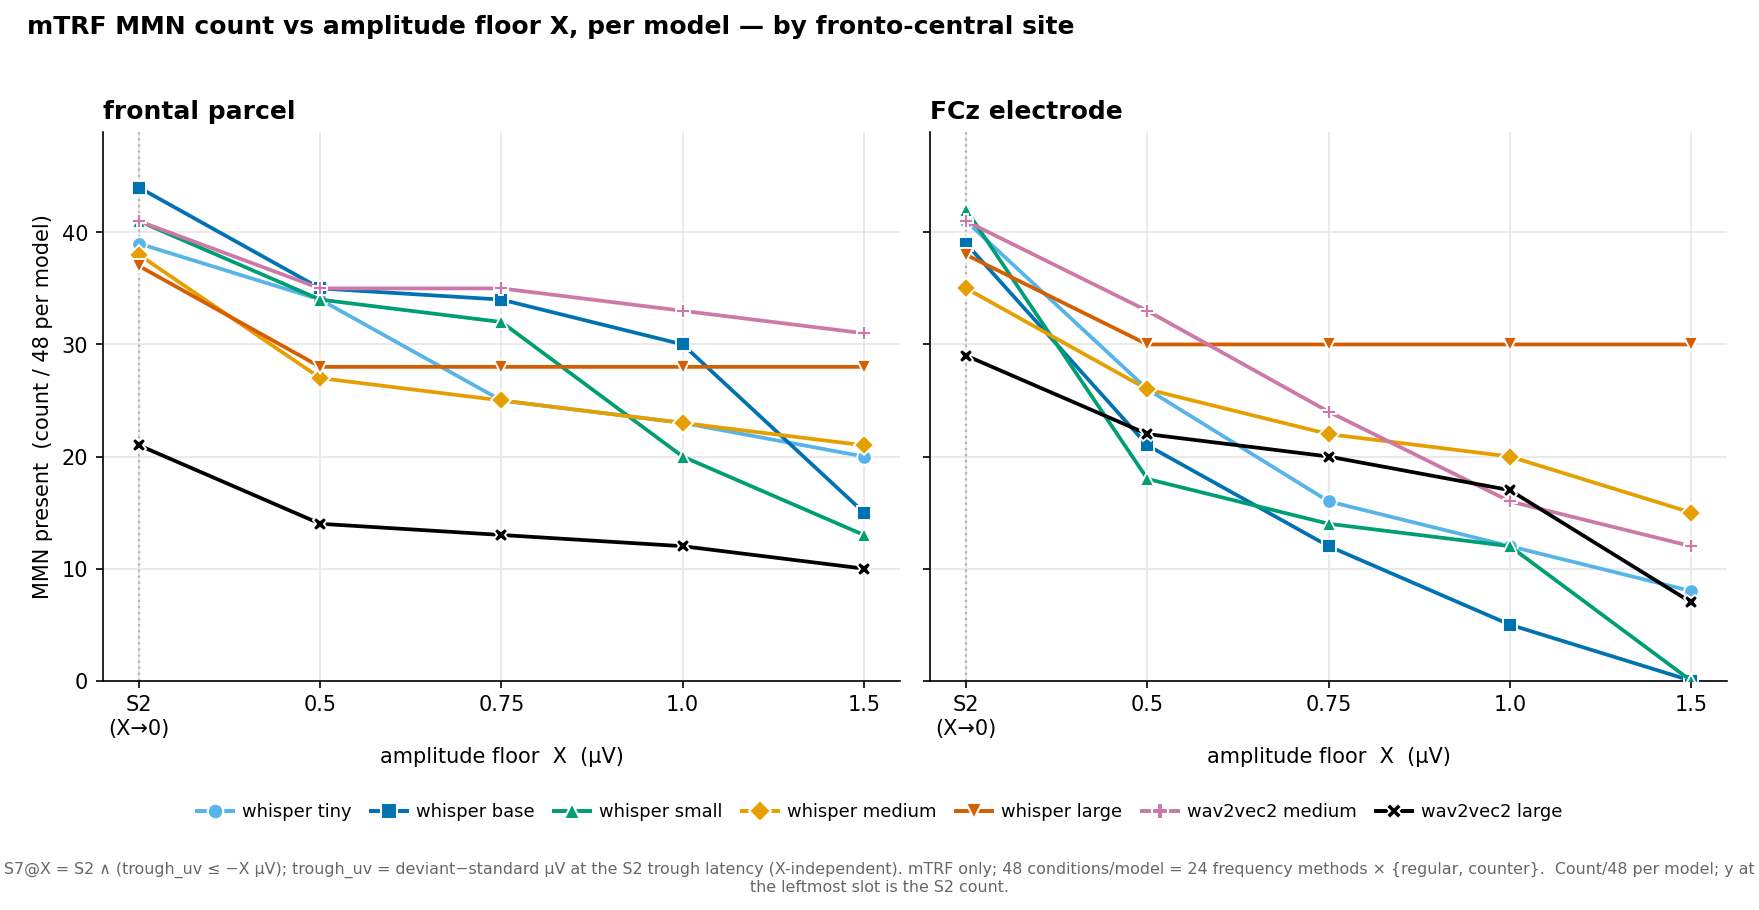
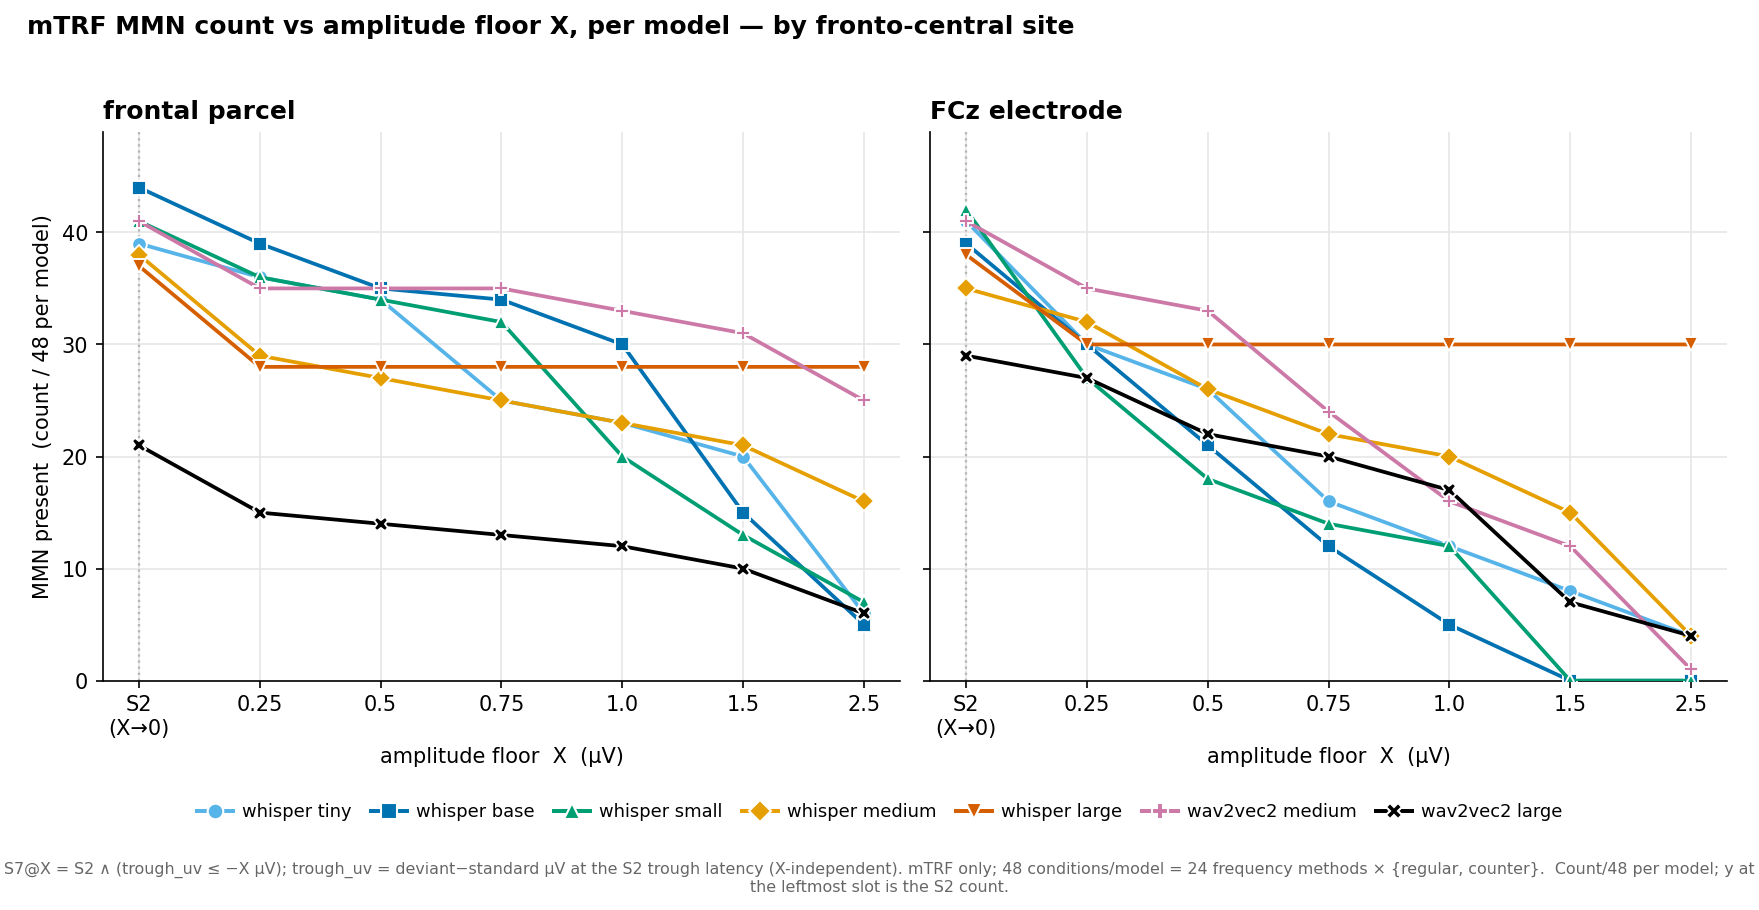
Sections 7/8/8b/8c: always show the 0.25 and 2.5 uV bookends
The reporting sweep stopped at 1.5, which hid both ends of the floor's
effect. Restore X = 0.25 and X = 2.5 everywhere they are compared:
Tables 32/33 gain S7@0.25 and S7@2.5 rows; Tables 36 and 37c now span the
whole sweep instead of quoting X = 0.5 alone; the 8b figures plot
{S2, 0.25, 0.5, 0.75, 1.0, 1.5, 2.5} and the trough-distribution figure
draws all six floors. X = 0.5 stays the headline.

The bookends carry the story:
- The frontal-vs-FCz split is floor-dependent - nearly tied at 0.25
  (84% vs 80%), 79% vs 66% at the 0.5 headline, and widest at 2.5
  (36% vs 16%). "The parcel is more amplitude-robust" only holds at or
  above ~0.5 uV.
- whisper-large's scale artifact is unmissable at 2.5: unchanged at 28/48
  (frontal) and 30/48 (FCz) at EVERY floor from 0.25 to 2.5, while every
  other model at FCz is at 4 or below.
- whisper-base and whisper-small hit 0 at FCz for both 1.5 and 2.5.
- Fz and FCz are near-interchangeable across the sweep (Fz is marginally
  ahead at 2.5).

Doc checks now 188 (was 130).

diff --git a/aux/analysis_with_counter/plots/sec8b_mtrf_plots.py b/aux/analysis_with_counter/plots/sec8b_mtrf_plots.py
@@ -11,14 +11,19 @@ Each Section-8b figure is a 2-panel row of the two canonical reporting sites:
     frontal parcel  |  FCz electrode
 
 Section 8b (3 figures):
-  1. sec8b_x_vs_mmn_per_model.png      — count /48 vs floor X ∈ {S2(X→0), 0.5, 0.75, 1.0, 1.5}
+  1. sec8b_x_vs_mmn_per_model.png      — count /48 vs floor X ∈ {S2(X→0), 0.25, 0.5, 0.75, 1.0,
+                                         1.5, 2.5}
   2. sec8b_x_vs_mmn_pooled.png         — count /336 vs the same floors, pooled over the 7 models
   3. sec8b_trough_uv_distribution.png  — trough_uv (µV) per model over its S2-passing conditions,
-                                         dotted floors at −0.5/−0.75/−1.0/−1.5 µV (symlog x —
-                                         whisper-large's predicted µV are ~40× the others, a
-                                         scale artifact)
+                                         dotted floors at −0.25/−0.5/−0.75/−1.0/−1.5/−2.5 µV
+                                         (symlog x — whisper-large's predicted µV are ~40× the
+                                         others, a scale artifact)
 Section 8c (1 figure):
   4. sec8c_fz_vs_fcz_trough.png        — paired Fz vs FCz predicted trough (µV), matched conditions
+
+The 0.25 and 2.5 µV bookends are ALWAYS plotted: X = 0.25 is where the site/model spread nearly
+closes and X = 2.5 is where it is widest, so a sweep stopping at 1.5 hides both ends of the floor's
+effect. X = 0.5 remains the reported headline.
 """
 import numpy as np, pandas as pd
 from scipy import stats
@@ -60,9 +65,11 @@ SITES = [("parcel", "frontal", "frontal parcel"),
          ("electrode", "FCz", "FCz electrode")]
 LEGEND_PANEL = 1                  # FCz (right) carries the per-model legend
 
-# amplitude floors on the x-axis; S2 is the X->0 reference (first, evenly-spaced slot)
-X_FLOORS = [0.5, 0.75, 1.0, 1.5]
-XLAB = ["S2\n(X→0)", "0.5", "0.75", "1.0", "1.5"]
+# amplitude floors on the x-axis; S2 is the X->0 reference (first, evenly-spaced slot).
+# The 0.25 and 2.5 bookends are ALWAYS shown: 0.25 is where the site/model spread nearly closes and
+# 2.5 is where it is widest, so dropping them hides both ends of the floor's effect.
+X_FLOORS = [0.25, 0.5, 0.75, 1.0, 1.5, 2.5]
+XLAB = ["S2\n(X→0)", "0.25", "0.5", "0.75", "1.0", "1.5", "2.5"]
 XPOS = list(range(len(X_FLOORS) + 1))
 I05 = X_FLOORS.index(0.5) + 1     # present_counts / x-slot index of the 0.5 headline
 POOL_COLOR = "#0072B2"
@@ -87,7 +94,7 @@ def site_df(kind, roi):
 
 
 def present_counts(sub):
-    """[S2, S7@0.5, S7@0.75, S7@1.0, S7@1.5] present-count for a subframe."""
+    """[S2, S7@0.25, S7@0.5, S7@0.75, S7@1.0, S7@1.5, S7@2.5] present-count for a subframe."""
     out = [int(sub.s2.sum())]
     for X in X_FLOORS:
         out.append(int(((sub.s2) & (sub.trough_uv <= -X)).sum()))
@@ -165,7 +172,7 @@ plt.close(fig)
 
 # ============ FIG 3: trough_uv distribution per model, symlog x, frontal | FCz ============
 fig, axes = plt.subplots(1, 2, figsize=(12.0, 6.0), sharex=True, sharey=True)
-FLOORS = [-0.5, -0.75, -1.0, -1.5]
+FLOORS = [-0.25, -0.5, -0.75, -1.0, -1.5, -2.5]
 XLIM = (-700, 20)
 rng = np.random.default_rng(0)
 for i, (ax, (kind, roi, title)) in enumerate(zip(axes.flat, SITES)):
@@ -200,7 +207,7 @@ for i, (ax, (kind, roi, title)) in enumerate(zip(axes.flat, SITES)):
     ax.set_ylim(0.4, N_MODELS + 0.95)
     ax.set_title(title, fontweight="bold", loc="left")
     ax.set_xlabel("S2/S7 trough  (µV, symlog;  negative = deeper MMN)")
-axes.flat[0].annotate("dotted = X floors {0.5, 0.75, 1.0, 1.5} µV · x-axis is symlog",
+axes.flat[0].annotate("dotted = X floors {0.25, 0.5, 0.75, 1.0, 1.5, 2.5} µV · x-axis is symlog",
                       xy=(0.02, 0.98), xycoords="axes fraction", ha="left", va="top",
                       fontsize=7.2, color="#888")
 fig.suptitle("mTRF S2-passing trough distribution per model, and how each X floor cuts it — by site",
@@ -262,7 +269,7 @@ fig.savefig(f"{OUT}/sec8c_fz_vs_fcz_trough.png", bbox_inches="tight")
 plt.close(fig)
 
 print("saved 4 figures to", OUT)
-print("rows = [S2, S7@0.5, S7@0.75, S7@1.0, S7@1.5]")
+print("rows = [S2] + [S7@X for X in " + str(X_FLOORS) + "]")
 for kind, roi, title in SITES:
     sub = site_df(kind, roi)
     print(f"\n{title} (mtrf):")

diff --git a/aux/analysis_with_counter/results_analysis_with_counter.md b/aux/analysis_with_counter/results_analysis_with_counter.md
@@ -931,7 +931,9 @@ The Section 4 and Section 6 findings from `results_analysis.md` are preserved wi
 > **S7@X** = `S2 AND (trough_uv ≤ −X µV)`, so **S7 ⊆ S2** in every cell. **trough_uv** = the signed
 > deviant−standard µV depth at the S2 trough latency (negative = deeper MMN), carried X-independently in
 > the CSV. **When a single floor is quoted the headline is X = 0.5 µV;** the calibration sweep
-> {0.25 … 2.5} (Table 31) and the reporting sweep {0.5, 0.75, 1.0, 1.5} (Tables 32–33) are shown below.
+> {0.25 … 2.5} (Table 31) and the reporting sweep {0.25, 0.5, 0.75, 1.0, 1.5, 2.5} (Tables 32–33) are
+> shown below — the **0.25 and 2.5 bookends are always reported** in every Section 7/8/8b/8c table and
+> figure, since the models converge at the lenient end and separate hardest at the strict end.
 >
 > **Scale caveat 1 — X is calibrated to the model, not to the literature (the ~4× shrinkage).** The
 > mTRF's predicted µV are **regularization-shrunk** (~4×), so the model's predicted µV scale need **not**
@@ -991,8 +993,10 @@ of any real MMN. The ROI-mean criteria of Sections 4/6 average the single-target
 ### 7b · S2 → S7 at the two fronto-central reporting sites (Tables 32–33)
 
 Present-count **n/48 per model**; the **Total** column is **n/336** (48 conditions × 7 models). Rows are
-the shape verdict `S2` and the amplitude-gated `S7@X` for the reporting sweep X ∈ {0.5, 0.75, 1.0, 1.5}
-µV (each computed from `trough_uv`). By construction **S7 ⊆ S2**, so every S7 row ≤ the S2 row. The
+the shape verdict `S2` and the amplitude-gated `S7@X` for the reporting sweep X ∈ {**0.25**, 0.5, 0.75,
+1.0, 1.5, **2.5**} µV (each computed from `trough_uv`). The **0.25 and 2.5 bookends are always shown**:
+0.25 is where the models nearly converge and 2.5 is where they are furthest apart, so a sweep stopping at
+1.5 hides both ends of the floor's effect. By construction **S7 ⊆ S2**, so every S7 row ≤ the S2 row. The
 **X = 0.5 µV headline** row is bolded. **whisper-large's counts are scale-inflated** (its predicted µV
 run ~40× the others), and the **Total** column pools whisper with the differently-trained wav2vec2 models
 (caveat 3) — read both as summaries, not controlled contrasts.
@@ -1002,27 +1006,33 @@ run ~40× the others), and the **Total** column pools whisper with the different
 | Criterion | whisper-tiny | whisper-base | whisper-small | whisper-medium | whisper-large | wav2vec2-medium | wav2vec2-large | Total (n/336) |
 | --------- | ------------ | ------------ | ------------- | -------------- | ------------- | --------------- | -------------- | ------------- |
 | S2 | 39 | 44 | 41 | 38 | 37 | 41 | 21 | 261 |
+| S7@0.25 | 36 | 39 | 36 | 29 | 28 | 35 | 15 | 218 |
 | **S7@0.5** | **34** | **35** | **34** | **27** | **28** | **35** | **14** | **207** |
 | S7@0.75 | 25 | 34 | 32 | 25 | 28 | 35 | 13 | 192 |
 | S7@1.0 | 23 | 30 | 20 | 23 | 28 | 33 | 12 | 169 |
 | S7@1.5 | 20 | 15 | 13 | 21 | 28 | 31 | 10 | 138 |
+| S7@2.5 | 6 | 5 | 7 | 16 | 28 | 25 | 6 | 93 |
 
 **Table 33. mTRF — FCz electrode**
 
 | Criterion | whisper-tiny | whisper-base | whisper-small | whisper-medium | whisper-large | wav2vec2-medium | wav2vec2-large | Total (n/336) |
 | --------- | ------------ | ------------ | ------------- | -------------- | ------------- | --------------- | -------------- | ------------- |
 | S2 | 41 | 39 | 42 | 35 | 38 | 41 | 29 | 265 |
+| S7@0.25 | 30 | 30 | 27 | 32 | 30 | 35 | 27 | 211 |
 | **S7@0.5** | **26** | **21** | **18** | **26** | **30** | **33** | **22** | **176** |
 | S7@0.75 | 16 | 12 | 14 | 22 | 30 | 24 | 20 | 138 |
 | S7@1.0 | 12 | 5 | 12 | 20 | 30 | 16 | 17 | 112 |
 | S7@1.5 | 8 | 0 | 0 | 15 | 30 | 12 | 7 | 72 |
+| S7@2.5 | 4 | 0 | 0 | 4 | 30 | 1 | 4 | 43 |
 
 ### 7c · Section 7 summary
 
 - **Calibration (Table 31).** Median S2-passing trough ≈ **−1.0 µV** (parcel −0.99, electrode −1.18), so
   the **X = 0.5 µV headline** sits shallower than the typical trough and keeps ≈ **70%** of S2 (71%
-  parcel, 72% electrode); 0.75 µV keeps 60–64%, 1.0 µV ≈ ½ (50–55%), and 1.5 µV only 37–43%. So 0.5 µV is
-  the lenient-but-nontrivial floor — it trims the shallow (0 → −0.5 µV) tail without amputating the bulk.
+  parcel, 72% electrode). Across the full reported sweep: **0.25 µV keeps 81–82%** (the lenient bookend),
+  0.75 µV keeps 60–64%, 1.0 µV ≈ ½ (50–55%), 1.5 µV 37–43%, and the **2.5 µV bookend only 26–29%**. So
+  0.5 µV is the lenient-but-nontrivial floor — it trims the shallow (0 → −0.5 µV) tail without amputating
+  the bulk, whereas 2.5 µV discards roughly three-quarters of the S2 troughs.
 - **mTRF S2 → S7@0.5 attrition, per model (Tables 32–33).** **Frontal parcel:** S2 261/336 → S7@0.5
   207/336 (**79%** retained) — tiny 39→34 (87%), base 44→35 (80%), small 41→34 (83%), medium 38→27 (71%),
   large 37→28 (76%), wav2vec2-medium 41→35 (85%), wav2vec2-large 21→14 (67%). **FCz electrode:** S2
@@ -1069,7 +1079,7 @@ deferred); pooled counts are **/336** (48 conditions × 7 models).
 
 > **Code / Data:** `scripts/analyze_mmn_s7_roi.py` → `outputs/results_24freq_7models/mmn_s7_roi.csv`.
 > Every number is recomputed at the **X = 0.5 µV** headline from the X-independent `trough_uv` column;
-> per-model splits and the {0.5 … 1.5} µV sweep are in Section 7's site-tables (Tables 32–33), and the
+> per-model splits and the {0.25 … 2.5} µV sweep are in Section 7's site-tables (Tables 32–33), and the
 > floor sweeps (per model and pooled) are plotted in **Section 8b**.
 >
 > **The /336 pool mixes whisper and wav2vec2**, which are not a strictly controlled comparison
@@ -1086,12 +1096,20 @@ between them.
 frontal parcel but only **66% (176/265)** at FCz (Table 36). The *same* shape verdict survives an
 absolute-µV floor markedly more often at the pooled parcel than at the single electrode.
 
-**Table 36. S2 → S7@0.5 retention at the two fronto-central sites** (mTRF, pooled /336)
+**Table 36. S2 → S7 retention at the two fronto-central sites, across the floor sweep** (mTRF, pooled
+/336). Cells are `S7@X count (% of that site's S2)`; the **0.5 headline** column is bolded, and the
+**0.25 / 2.5 bookends** are shown because the site gap *only exists in the middle of the range*.
 
-| Site | S2 (/336) | S7@0.5 (/336) | S7@0.5 / S2 |
-| ---- | --------- | ------------- | ----------- |
-| frontal parcel | 261 | 207 | **79%** |
-| FCz electrode | 265 | 176 | **66%** |
+| Site | S2 (/336) | S7@0.25 | **S7@0.5** | S7@0.75 | S7@1.0 | S7@1.5 | S7@2.5 |
+| ---- | --------- | ------- | ---------- | ------- | ------ | ------ | ------ |
+| frontal parcel | 261 | 218 (84%) | **207 (79%)** | 192 (74%) | 169 (65%) | 138 (53%) | 93 (36%) |
+| FCz electrode | 265 | 211 (80%) | **176 (66%)** | 138 (52%) | 112 (42%) | 72 (27%) | 43 (16%) |
+
+**The bookends show the split is floor-dependent.** At **X = 0.25** the two sites are nearly tied (84% vs
+80% — a 4-point gap); the gap opens at the 0.5 headline (79% vs 66%, 13 points) and is **widest at
+X = 2.5** (36% vs 16% — the parcel keeps *more than twice* the share FCz does). So "the frontal parcel is
+more amplitude-robust" is a statement about floors at or above ~0.5 µV; at a very lenient floor the choice
+of site barely matters.
 
 **3 · The cause is amplitude, not shape.** The frontal-parcel S2-passing troughs are ≈ **2× deeper** in
 µV than FCz's: median **−1.72 µV (parcel) vs −0.79 µV (FCz)** (Table 37). A parcel pools a spatial
@@ -1131,27 +1149,32 @@ under `plots/old_sec78_plots/`; the superseded 5-model 2×2-site figures under
 `plots/old_sec78_plots/5model_24freq/`.)
 
 **Read.**
-- **The floor cuts S2 monotonically, and the frontal parcel is uniquely robust.** At the 0.5 µV
-  headline the **frontal parcel keeps 79%** of S2 (207/261) vs **66%** at FCz (176/265), and the gap
-  widens with X (at 1.5 µV: 138 vs 72 /336). The frontal parcel's median trough is −1.72 µV against FCz's
-  −0.79 µV — **spatial pooling buys depth**, which is exactly what an absolute-µV floor rewards.
+- **The floor cuts S2 monotonically, and the frontal parcel is uniquely robust — but only above ~0.5 µV.**
+  The bookends bracket the effect: at **X = 0.25** the sites are nearly tied (218/261 = 84% vs 211/265 =
+  80%), at the **0.5 headline** the parcel keeps **79%** vs **66%**, and by **X = 2.5** the parcel keeps
+  **36%** (93/336) against FCz's **16%** (43/336) — more than double. The frontal parcel's median trough is
+  −1.72 µV against FCz's −0.79 µV — **spatial pooling buys depth**, which is exactly what an absolute-µV
+  floor rewards.
 - **Per model,** whisper-small has the shallowest FCz troughs (median −0.39 µV) and collapses fastest
-  (42 S2 → 18 at 0.5 → **0** at 1.5), with whisper-base close behind (also 0 at 1.5); **whisper-large is
-  the flat line at the top** — its predicted µV are ~40× the others (a scale artifact; Section 7 caveat
-  2), so it clears every floor unchanged from 0.5 to 1.5. **wav2vec2-medium is the most floor-robust
-  normal-scale model** (deepest frontal troughs, median −3.45 µV; 41 S2 → 31 at 1.5 µV), while
-  **wav2vec2-large starts lowest on shape** (21/48 frontal S2) and therefore stays lowest at every floor.
+  (42 S2 → 27 at 0.25 → 18 at 0.5 → **0** at both 1.5 and 2.5), with whisper-base identical at the strict
+  end (**0** at 1.5 and 2.5); **whisper-large is the flat line at the top** — its predicted µV are ~40× the
+  others (a scale artifact; Section 7 caveat 2), so it is **completely unchanged across the entire sweep**
+  (28/48 frontal and 30/48 FCz at *every* floor from 0.25 to 2.5). The 2.5 bookend is what makes that
+  artifact unmissable: at the strictest floor whisper-large retains 30/48 at FCz while every other model
+  is at 4 or below. **wav2vec2-medium is the most floor-robust normal-scale model** (deepest frontal
+  troughs, median −3.45 µV; 41 S2 → 25 even at 2.5 µV), while **wav2vec2-large starts lowest on shape**
+  (21/48 frontal S2) and therefore stays lowest at every floor.
 - **Trough distribution (symlog x):** six models cluster around the 0.5–1.5 µV floors; whisper-large sits
   ~40× deeper in both panels. Every model's FCz distribution sits shallower than its frontal-parcel one —
   the per-model version of the site split.
 
-**Figure 1 — MMN count /48 per model vs the amplitude floor X ∈ {S2 (X→0), 0.5, 0.75, 1.0, 1.5} µV:**
+**Figure 1 — MMN count /48 per model vs the amplitude floor X ∈ {S2 (X→0), 0.25, 0.5, 0.75, 1.0, 1.5, 2.5} µV:**
 ![mTRF MMN present-count /48 per model vs floor X; 2 panels (frontal parcel | FCz electrode), 7 model lines.](plots/sec8b_x_vs_mmn_per_model.png)
 
 **Figure 2 — pooled count /336 vs the same floors, S2 total as the X→0 reference:**
 ![mTRF MMN present-count /336 pooled over the 7 models vs floor X; 2 panels (frontal parcel | FCz electrode).](plots/sec8b_x_vs_mmn_pooled.png)
 
-**Figure 3 — trough_uv distribution per model over its S2-passing conditions (symlog x; dotted floors at −0.5/−0.75/−1.0/−1.5 µV):**
+**Figure 3 — trough_uv distribution per model over its S2-passing conditions (symlog x; dotted floors at −0.25/−0.5/−0.75/−1.0/−1.5/−2.5 µV):**
 ![mTRF S2-passing trough_uv distribution per model; 2 panels (frontal parcel | FCz electrode), dotted amplitude floors overlaid, symlog x-axis.](plots/sec8b_trough_uv_distribution.png)
 
 ---
@@ -1170,10 +1193,17 @@ amplitude (µV)** differs between them, matched condition-for-condition. **mTRF 
 
 **Table 37c. Fz vs FCz — shape and predicted µV trough (mTRF, /336)**
 
-| Electrode | S2 (/336) | median S2 trough (µV) | S7@0.5 / S2 |
-| --------- | --------- | --------------------- | ----------- |
-| Fz | 275 | −0.78 | 170/275 = 62% |
-| FCz | 265 | −0.79 | 176/265 = 66% |
+Retention cells are `S7@X / S2` as a % of that electrode's S2; the **0.5 headline** is bolded and the
+**0.25 / 2.5 bookends** are shown alongside the rest of the sweep.
+
+| Electrode | S2 (/336) | median S2 trough (µV) | S7@0.25 | **S7@0.5** | S7@0.75 | S7@1.0 | S7@1.5 | S7@2.5 |
+| --------- | --------- | --------------------- | ------- | ---------- | ------- | ------ | ------ | ------ |
+| Fz | 275 | −0.78 | 77% | **62%** | 52% | 35% | 24% | 17% |
+| FCz | 265 | −0.79 | 80% | **66%** | 52% | 42% | 27% | 16% |
+
+The two electrodes track each other across the whole sweep (they cross at 0.75 and again near 2.5), which
+is the point: **Fz and FCz are near-interchangeable at every floor**, and both fall far below the frontal
+parcel (84% → 36% over the same sweep; Table 36).
 
 **What the data show.**
 - **They capture the same response.** S2 fires at comparable rates (Fz 275/336 vs FCz 265/336), and the
@@ -1190,7 +1220,8 @@ amplitude (µV)** differs between them, matched condition-for-condition. **mTRF 
   the six normal-scale models (FCz deeper in 62–92% of pairs: tiny 92%, small 83%, wav2vec2-medium 71%,
   base 63%, medium 62%) and **reverses only for whisper-large** (37%, where the µV scale artifact
   dominates) and **wav2vec2-large** (37%). Consequently the 0.5 µV floor retains slightly more of FCz's
-  S2 (**66% vs 62%**).
+  S2 (**66% vs 62%**) — though across the full sweep the two are near-interchangeable (Table 37c: 80% vs
+  77% at the 0.25 bookend; 16% vs 17% at 2.5, where Fz is marginally *ahead*).
 - **Both remain shallow single midline electrodes**, far shallower than the pooled **frontal parcel**
   (median −1.72 µV, 79% retained; Section 8) — so for an absolute-µV criterion an ROI/parcel still beats
   either lone electrode.